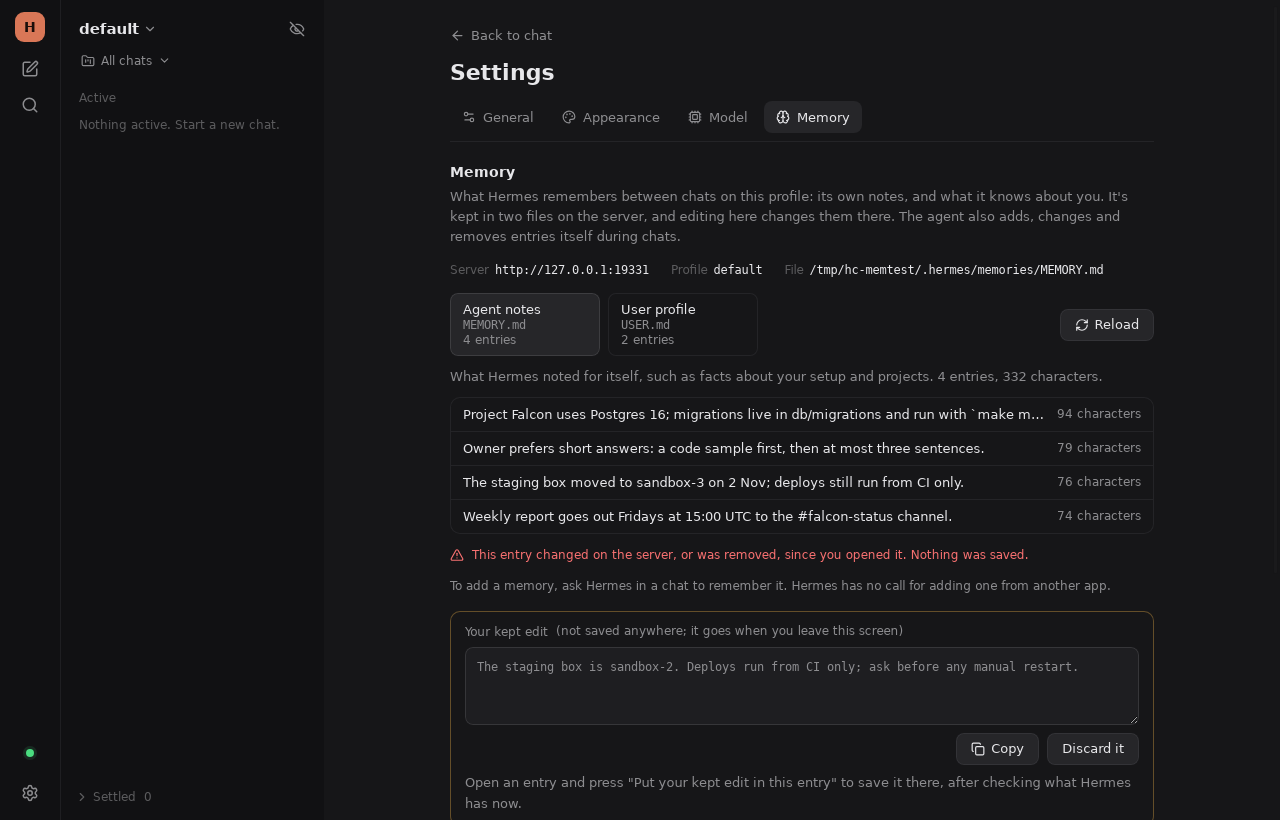
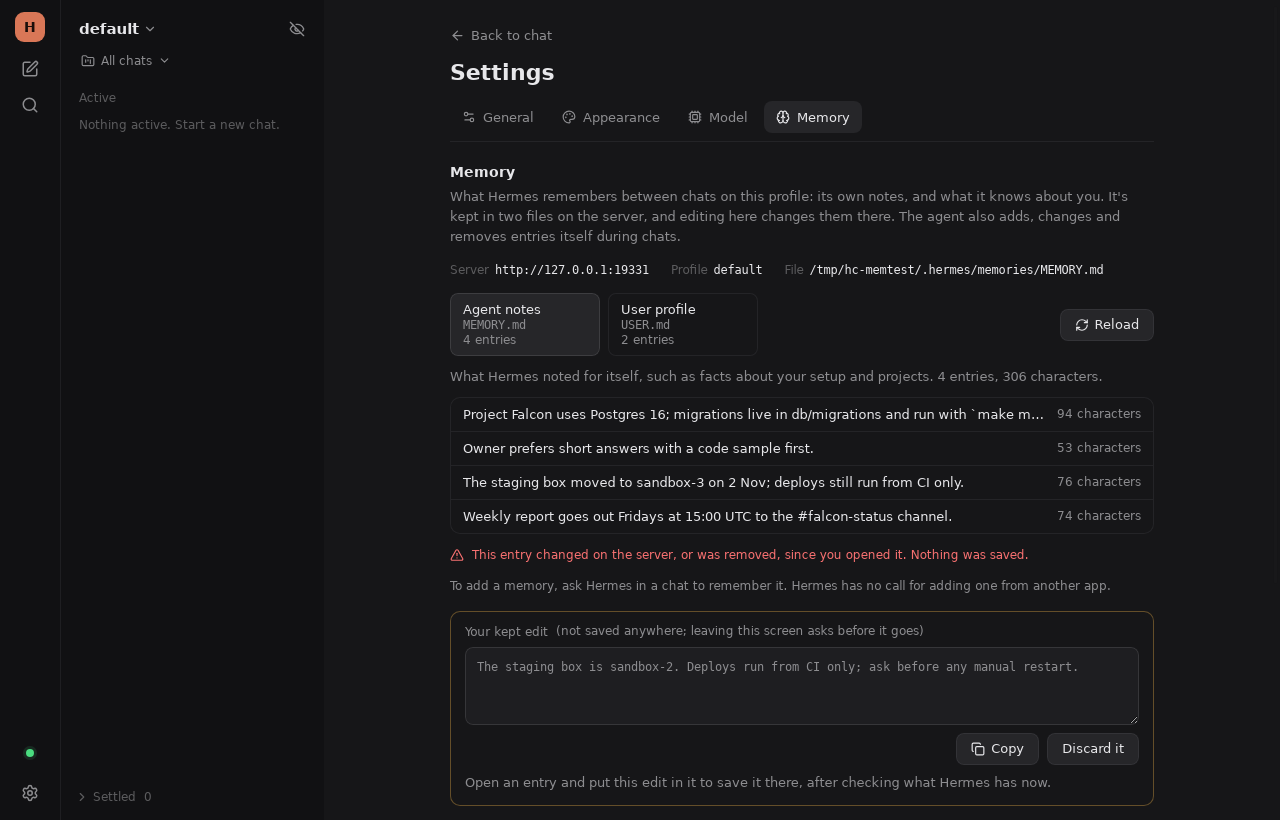
Recapture the conflict and recovery screenshots on the reviewed build

diff --git a/docs/screenshots/memory-editor/README.md b/docs/screenshots/memory-editor/README.md
@@ -4,6 +4,10 @@ Captured on 2026-11-02 from the running Tauri debug application (WebKitGTK, buil
 on an Xvfb display, at the app's 1280 × 820 window. These are framebuffer captures, not browser mockups, and nothing was
 composited or retouched.
 
+Images 4 and 5 were captured from a build of `134755a`, after the independent review's fixes; the others from a build
+of `ef8f7ed`. The review's later changes don't alter what those other images show (they concern kept edits, lost
+answers and navigation while a save runs).
+
 The app was signed in by URL (`http://127.0.0.1:19331`, an SSH port-forward) to a **throwaway Hermes dashboard** run from
 the deployed `bf0203a` checkout on the Hermes server, with its own `HOME` under `/tmp`, a synthetic password, and only
 synthetic memory in two profiles (`default` and `research`). Every memory entry shown is made up. The real dashboard
